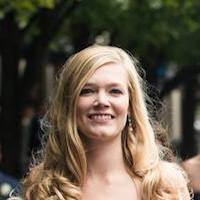
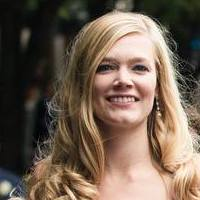
updated kiiras photo

diff --git a/wedding/page/templates/page/bridal-party.html b/wedding/page/templates/page/bridal-party.html
@@ -33,7 +33,7 @@
             <span class="relationship">Groom&apos;s Sister</span>
         </li>
         <li>
-            <img src="dist/page/kiira-909c08af35.jpg" alt="">
+            <img src="dist/page/kiira-0f6e46e03f.jpg" alt="">
             <span class="name">Kiira Wolf</span>
             <span class="relationship">Groom&apos;s Sister in Law</span>
         </li>
